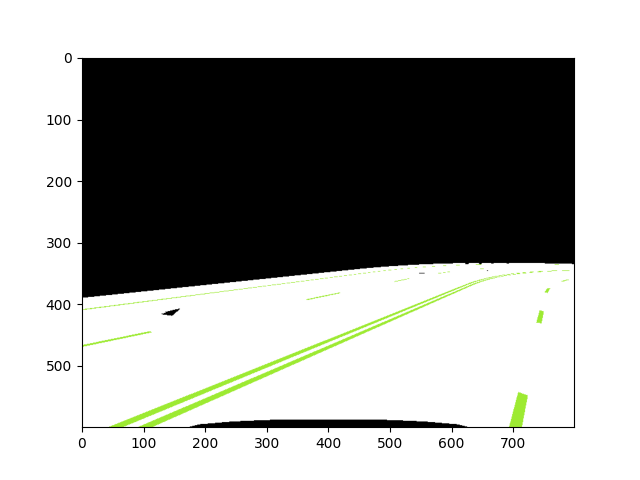
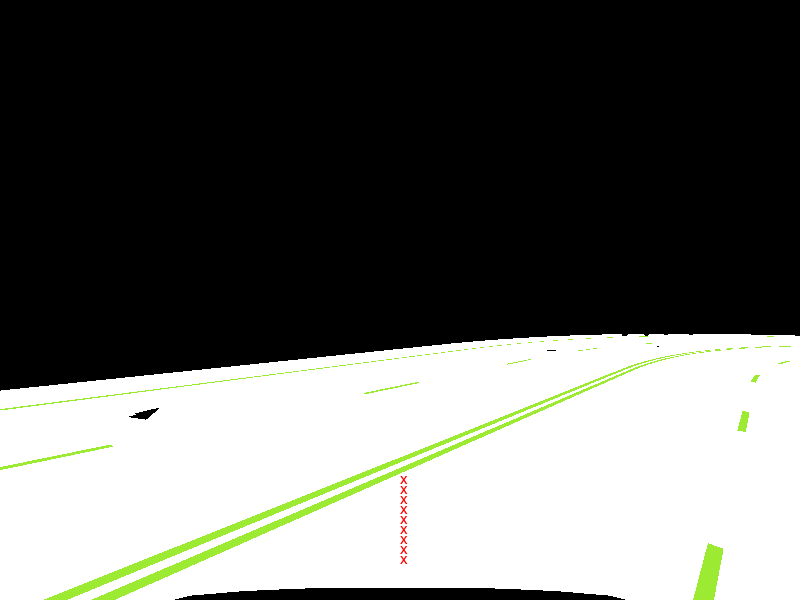
drive space grid test #3

diff --git a/driveSpaceTestAll.py b/driveSpaceTestAll.py
@@ -5,7 +5,7 @@ import random
 import time
 import io
 import numpy as np
-from PIL import Image
+from PIL import Image, ImageDraw, ImageFont
 import matplotlib.pyplot as plt
 import cv2
 
@@ -51,34 +51,48 @@ class driveSpaceTestAll():
         interable = 10
         multiplier = 0
         x = int(width/2)
-        plt.imshow(image)
+         # get a drawing context
+        d = ImageDraw.Draw(image)
 
-        while (canDriveForward):
-            y = int(height - (multiplier * interable) - buffer)
-            white = (255, 255, 255)
+        with image.convert("RGBA") as base:
 
-            # Check a row of pixels from the middle of the image using half of vehicle width
-            clearRow = True
-            halfWidth = int(vehicleWidth / 2)
-            for j in range(-halfWidth, halfWidth):
-                pixel = image.getpixel((x + j, y))
-                pixel2 = image.getpixel((x + j, (y - (multiplier * interable + 1))))
-                pixel3 = image.getpixel((x + j, (y - (multiplier * interable + 2))))
-                if ((pixel != white) or (pixel2 != white) or (pixel3 != white)):
-                    clearRow = False
+            # make a blank image for the text, initialized to transparent text color
+            txt = Image.new("RGBA", base.size, (255, 255, 255, 0))
 
-            # Check if the pixel matches the specific RGB value
-            if ((y - (multiplier * interable + 2)) < 0) and clearRow:
-                plt.scatter(x, y, s=10, c='red', marker='x')
-                multiplier += 1
-            else:
-                canDriveForward = False
+            # get a font
+            fnt = ImageFont.truetype("arial.ttf", 15)
+            # get a drawing context
+            d = ImageDraw.Draw(txt)
 
-        # Convert plot to PIL Image object and return it
-        img_buf = io.BytesIO()
-        plt.savefig(img_buf, format='png')
-        image = Image.open(img_buf)
-        return image
+            while(canDriveForward):
+                y = int(height - (multiplier*interable) - buffer)
+                pixel = image.getpixel((x, y))
+                pixel2 = image.getpixel((x, (y - ((multiplier+1)*interable))))
+                pixel3 = image.getpixel((x, (y - ((multiplier+2)*interable))))
+                white = (255, 255, 255)
+                laneColor = (157, 234, 50)
+
+                #Check a row of pixels from the middle of the image using half of vehicle width
+                clearRow = True
+                halfWidth = int(vehicleWidth/2)
+                for j in range(-halfWidth,halfWidth):
+                    pixel = image.getpixel((x+j, y))
+                    pixel2 = image.getpixel((x+j, (y - ((multiplier+1)*interable))))
+                    pixel3 = image.getpixel((x+j, (y - ((multiplier+2)*interable))))
+                    if(((pixel != white) and (pixel != laneColor)) or ((pixel2 != white) and (pixel2 != laneColor)) or ((pixel3 != white) and (pixel3 != laneColor))):
+                        clearRow = False
+                    
+                # Check if the pixel matches the specific RGB value
+                if ((y - ((multiplier+2)*interable))>0) and clearRow :
+                    # draw text, half opacity
+                    d.text((x, y), "x", font=fnt, fill=(255, 0, 0, 255))
+                    multiplier += 1
+               
+                else:
+                    canDriveForward = False
+                    
+            out = Image.alpha_composite(base, txt)
+            return out
 
     def plotGrid(self):
         #Add trajectory on image for driving forward

diff --git a/gridMapTest2.py b/gridMapTest2.py
@@ -1,4 +1,4 @@
-from PIL import Image
+from PIL import Image, ImageDraw, ImageFont
 import matplotlib.pyplot as plt
 import numpy as np
 import io
@@ -41,16 +41,26 @@ def driveForward(image):
     interable = 10
     multiplier = 0
     x = int(width/2)
-    vehicleWidth = 100
+    vehicleWidth = 50
     i = 0
-    plt.figure()
-    plt.imshow(image)
+     # get a drawing context
+    d = ImageDraw.Draw(image)
 
-    while(canDriveForward):
+    with image.convert("RGBA") as base:
+
+        # make a blank image for the text, initialized to transparent text color
+        txt = Image.new("RGBA", base.size, (255, 255, 255, 0))
+
+        # get a font
+        fnt = ImageFont.truetype("arial.ttf", 15)
+        # get a drawing context
+        d = ImageDraw.Draw(txt)
+
+        while(canDriveForward):
             y = int(height - (multiplier*interable) - buffer)
             pixel = image.getpixel((x, y))
-            pixel2 = image.getpixel((x, (y - (multiplier*interable+1))))
-            pixel3 = image.getpixel((x, (y - (multiplier*interable+2))))
+            pixel2 = image.getpixel((x, (y - ((multiplier+1)*interable))))
+            pixel3 = image.getpixel((x, (y - ((multiplier+2)*interable))))
             white = (255, 255, 255)
             laneColor = (157, 234, 50)
 
@@ -59,25 +69,29 @@ def driveForward(image):
             halfWidth = int(vehicleWidth/2)
             for j in range(-halfWidth,halfWidth):
                 pixel = image.getpixel((x+j, y))
-                pixel2 = image.getpixel((x+j, (y - (multiplier*interable+1))))
-                pixel3 = image.getpixel((x+j, (y - (multiplier*interable+2))))
+                pixel2 = image.getpixel((x+j, (y - ((multiplier+1)*interable))))
+                pixel3 = image.getpixel((x+j, (y - ((multiplier+2)*interable))))
                 if(((pixel != white) and (pixel != laneColor)) or ((pixel2 != white) and (pixel2 != laneColor)) or ((pixel3 != white) and (pixel3 != laneColor))):
                     clearRow = False
                 
             # Check if the pixel matches the specific RGB value
-            if ((y - (multiplier*interable+2))<0) and clearRow :
-                plt.scatter(x, y, s=10, c='red', marker='x')
+            if ((y - ((multiplier+2)*interable))>0) and clearRow :
+                # draw text, half opacity
+                d.text((x, y), "x", font=fnt, fill=(255, 0, 0, 255))
                 multiplier += 1
+                i += 1
+                
+                
             else:
                 canDriveForward = False
+                
 
-    img_buf = io.BytesIO()
-    plt.savefig(img_buf, format='png')
+        out = Image.alpha_composite(base, txt)
 
-    image = Image.open(img_buf)
-    print("Moved Forward "+str(i)+" times. Can Not drive more forward.")
-    image.save('driveSpace2.png')
-    #plt.show()
+        out.show()
+
+        print("Moved Forward "+str(i)+" times. Can Not drive more forward.")
+        out.save('driveSpace2.png')
 
 image = Image.open("driveSpace1.png")
 driveForward(image)
